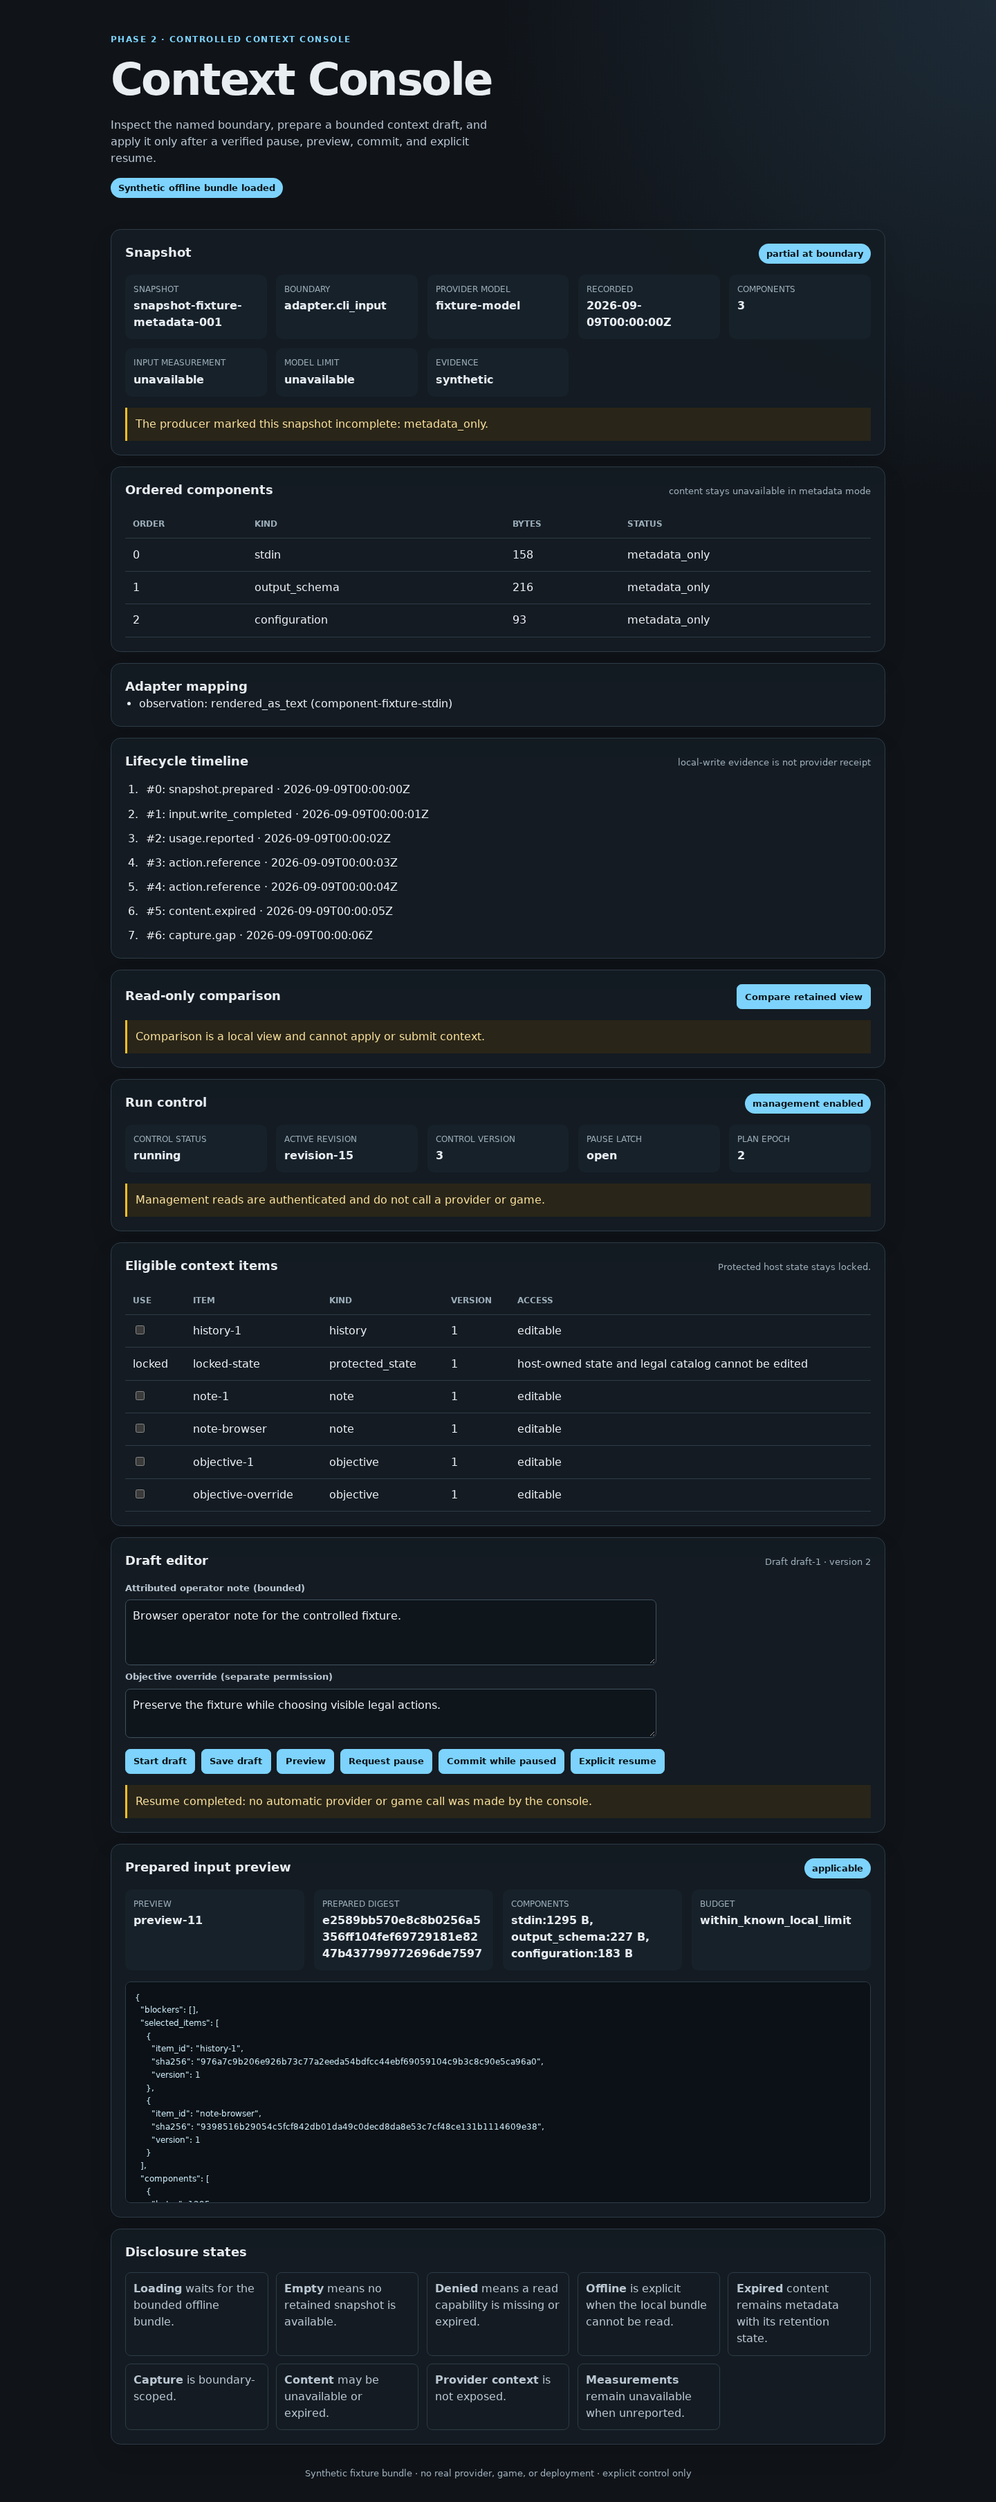
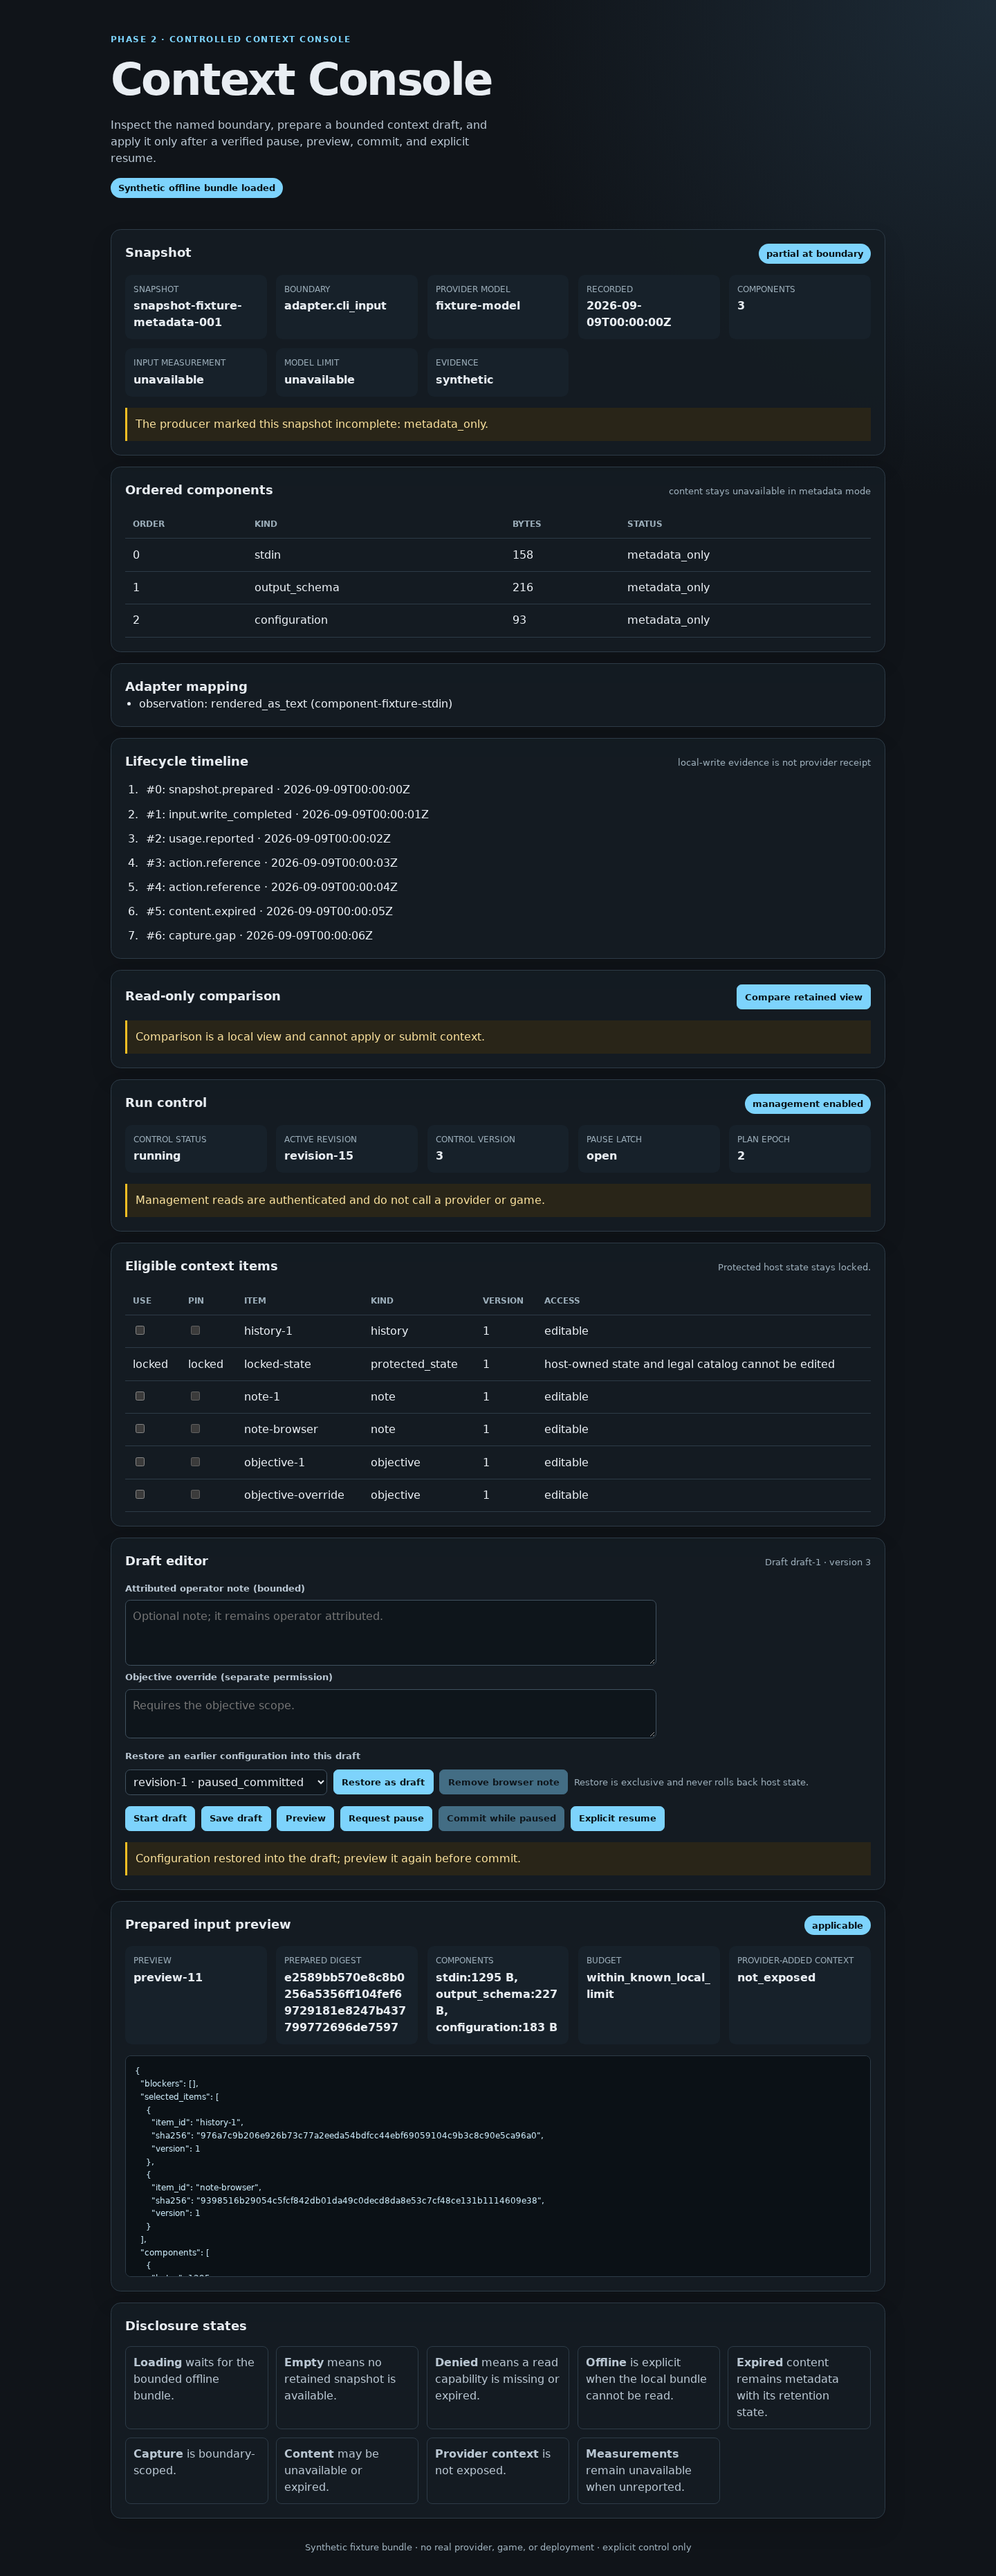
Refresh Phase 2 evidence for final head

diff --git a/docs/evidence/phase2-completion-report-20260910.md b/docs/evidence/phase2-completion-report-20260910.md
@@ -2,7 +2,7 @@
 
 This is the review record for the Phase 2 draft branches. Phase 1 was merged first, then the existing target repositories were extended; no Phase 2 branch was merged, released, deployed, or used against a live provider/game.
 
-Target: [ascension-context-console PR #3](https://github.com/AI-Ascension/ascension-context-console/pull/3). Companion: [sts2-harness PR #60](https://github.com/AI-Ascension/sts2-harness/pull/60). The target and companion heads are cross-linked in both PR bodies. Contract source pins and SHA-256 values are in `contracts/context-control/README.md`.
+Target: [ascension-context-console PR #3](https://github.com/AI-Ascension/ascension-context-console/pull/3) at `772d16da40b335d62ae982ea671800281ba920ce`. Companion: [sts2-harness PR #60](https://github.com/AI-Ascension/sts2-harness/pull/60) at `4c79e83c60545684771a1d6084179ef9bec0d84c`. The target and companion heads are cross-linked in both PR bodies. Contract source pins and SHA-256 values are in `contracts/context-control/README.md`.
 
 The implementation is disabled outside the synthetic management fixture. The target control plane never calls a provider or game; the companion seam proves prepared bytes through fake Exo/Astra/Ollama peers. Real provider, host, deployment and soak evidence is not claimed.
 
@@ -11,9 +11,10 @@ The implementation is disabled outside the synthetic management fixture. The tar
[1 lines of base64/hex data omitted]
 
 The Phase 2 browser audit now passes with the bounded Chromium/Playwright environment: it exercises
-draft save, note/objective entry, exploratory and applicable previews, pause, commit-while-paused,
-explicit resume, control events, zero provider/game effects, storage, network, keyboard and narrow
-layout assertions. Native depth-2/3 Luna/max descendants and reservation metadata remain unavailable;
+draft save, note/objective entry, typed pinning and restore, exploratory and applicable previews,
+pause, commit-while-paused, explicit resume, control events, authorization denial probes, zero
+provider/game effects, storage, network, keyboard and narrow-layout assertions. Native depth-2/3
+Luna/max descendants and reservation metadata remain unavailable;
 see `docs/evidence/phase2-native-preflight-20260910.json`.
 
 ## Requirement index
@@ -36,9 +37,9 @@ Statuses mean: **executed** has a local executable assertion or gate; **source-r
 | P2-R012 | executed | Bounded control types, strict JSON, duplicate-key and contract tests pass. |
 | P2-R013 | executed | Versioned notes are attributed in target state and rendered harness context. |
 | P2-R014 | executed | `objective_authorization_and_restore_alone_are_enforced`. |
-| P2-R015 | executed | Restore is exclusive and creates a new draft configuration. |
+| P2-R015 | executed | Restore is exclusive and creates a new draft configuration; target test and browser flow pass. |
 | P2-R016 | source-reviewed | Edit-time and preview-time immutable scope/digest/expiry checks are implemented. |
-| P2-R017 | source-reviewed | Pins remain subject to item and aggregate component bounds. |
+| P2-R017 | executed | Pins remain subject to selection, item, and aggregate component bounds; target test and browser flow pass. |
 | P2-R018 | executed | Exploratory/applicable preview distinction and provider-free test pass. |
 | P2-R019 | executed | Prepared renderer and dispatch seam tests pass. |
 | P2-R020 | source-reviewed | Boundary, revision, adapter, model/configuration and manifest fields are bound in code. |
@@ -71,7 +72,7 @@ Statuses mean: **executed** has a local executable assertion or gate; **source-r
 | P2-R047 | source-reviewed | Finite limits cover commands, notes, items, components, previews, events and journal. |
 | P2-R048 | source-reviewed | Phase1 memory capture remains explicitly separate from durable control journal. |
 | P2-R049 | executed | Receipt effects distinguish pause, commit, resume and preview state. |
-| P2-R050 | executed | Phase 2 Playwright audit covers disabled/control/error UI and same-origin security assertions. |
+| P2-R050 | executed | Phase 2 Playwright audit covers control/error UI, typed restore, and same-origin security assertions; disabled/disconnected live state remains outside the fixture. |
 | P2-R051 | source-reviewed | CLI demo uses the same typed control reducer; a separate remote CLI is not claimed. |
 | P2-R052 | executed | Relations bind revision, preview, snapshot, execution, attempt and intervention IDs. |
 | P2-R053 | source-reviewed | Intervention lineage is retained on revisions and relations after restore. |
@@ -89,6 +90,17 @@ Statuses mean: **executed** has a local executable assertion or gate; **source-r
 
 ## Failure and recovery coverage
 
-The target Phase 2 integration tests cover protected edits, draft CAS, objective authorization, restore exclusivity, exploratory/applicable preview, pause/commit/resume, stale boundaries, idempotent receipts, changed-body conflicts, journal recovery, disabled mode, and stop dominance. The companion tests cover prepared Exo bytes, legacy parity, control recovery, and actual serialized Ollama/Astra bridge inputs. The package’s bounded reference model additionally checked 12,389 transitions and eight targeted scenarios across 1,802 states; it does not validate Rust storage, authentication, provider behavior, game effects, or native topology.
+The 13 target Phase 2 integration tests cover protected edits, draft CAS, objective authorization,
+typed pin/exclude/restore, protected identity aliases, exploratory/applicable preview,
+pause/commit/resume, stale boundaries, idempotent receipts, command-window expiry, changed-body
+conflicts, journal tamper/recovery, disabled mode, and stop dominance. The companion tests cover
+prepared Exo bytes, legacy parity, controller recovery, invalid UTF-8/expiry/pin rejection, and
+actual serialized Ollama/Astra bridge inputs. The package’s bounded reference model additionally
+checked 12,389 transitions and eight targeted scenarios across 1,802 states; it does not validate
+Rust storage, authentication, provider behavior, game effects, or native topology.
 
-No production migration or rollback claim is made because this fixture uses bounded in-memory state. A maintainer should review the two draft PRs, rerun the documented gates, install `jsonschema` for schema fixtures, and provide the missing browser/native environment before treating those rows as verified.
+No production migration or rollback claim is made because this fixture uses bounded in-memory state;
+the additive journal recovery and safe deactivation behavior are tested, while a native encrypted
+store migration and old-binary refusal still require implementation. Schema fixtures were executed
+with `jsonschema`; native depth/reservation controls remain unavailable in this environment. A
+maintainer should review the two draft PRs and rerun the documented gates before release work.
